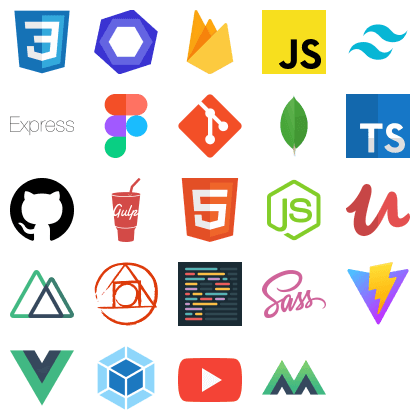
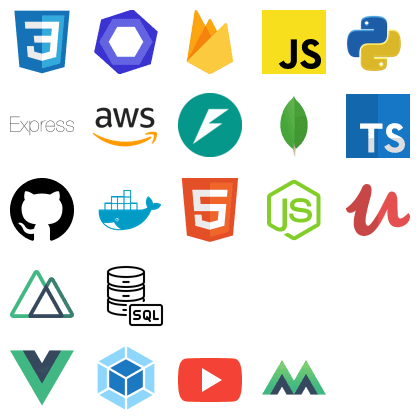
update skills section

diff --git a/components/Skills/What.vue b/components/Skills/What.vue
@@ -37,10 +37,17 @@
                             :title="item.title"
                             target="_blank"
                             :href="item.link"
-                            class="icons__sprite"
-                            :class="item.title.toLowerCase()"
+                            class="skill__link"
                         >
-                            &nbsp;
+                            <span
+                                class="icons__sprite"
+                                :class="item.title.toLowerCase()"
+                            >
+                                &nbsp;
+                            </span>
+                            <span class="skill__name biko__regular">
+                                {{ item.title }}
+                            </span>
                         </a>
                     </li>
                 </ul>
@@ -59,7 +66,7 @@ export default {
         return {
             skills: [
                 {
-                    title: 'Core',
+                    title: 'Frontend',
                     items: [
                         {
                             title: 'HTML',
@@ -73,21 +80,8 @@ export default {
                             title: 'Javascript',
                             link: 'https://www.w3schools.com/js/'
                         },
-                        { title: 'SASS', link: 'https://sass-lang.com/' },
-                        {
-                            title: 'Typescript',
-                            link: 'https://www.typescriptlang.org/'
-                        }
-                    ]
-                },
-                {
-                    title: 'Frontend',
-                    items: [
                         { title: 'Vue', link: 'https://vuejs.org/' },
-                        { title: 'Nuxt', link: 'nuxtjs.org' },
-                        { title: 'PostCSS', link: 'https://postcss.org/' },
-                        { title: 'Tailwind', link: 'https://tailwindcss.com/' },
-                        { title: 'Figma', link: 'https://www.figma.com/' }
+                        { title: 'Nuxt', link: 'https://nuxtjs.org' }
                     ]
                 },
                 {
@@ -95,28 +89,22 @@ export default {
                     items: [
                         { title: 'Node', link: 'https://nodejs.org/en/' },
                         { title: 'Express', link: 'https://expressjs.com/' },
-                        { title: 'MongoDB', link: 'https://www.mongodb.com/' },
+                        { title: 'Python', link: 'https://www.python.org/' },
                         {
-                            title: 'Firebase',
-                            link: 'https://firebase.google.com/'
+                            title: 'FastApi',
+                            link: 'https://fastapi.tiangolo.com/'
                         }
                     ]
                 },
                 {
-                    title: 'Tools',
+                    title: 'Others',
                     items: [
-                        { title: 'Vite', link: 'https://vitejs.dev/' },
-                        { title: 'Webpack', link: 'https://webpack.js.org/' },
-                        { title: 'Gulp', link: 'https://gulpjs.com/' },
-                        { title: 'eslint', link: 'https://eslint.org/' },
-                        { title: 'prettier', link: 'https://prettier.io/' }
-                    ]
-                },
-                {
-                    title: 'Source Control',
-                    items: [
-                        { title: 'Git', link: 'https://git-scm.com/' },
-                        { title: 'Github', link: 'https://github.com/' }
+                        {
+                            title: 'SQL',
+                            link: 'https://en.wikipedia.org/wiki/SQL'
+                        },
+                        { title: 'AWS', link: 'https://aws.amazon.com/' },
+                        { title: 'Docker', link: 'https://www.docker.com/' }
                     ]
                 }
             ],
@@ -434,6 +422,19 @@ export default {
             }
         }
     }
+}
+
+.skill__link {
+    display: flex;
+    flex-direction: column;
+    align-items: center;
+    gap: 16px;
+}
+
+.skill__name {
+    font-size: rem(14);
+    color: $black;
+    line-height: 1;
 }
 
 .skill__title {

diff --git a/assets/styles/_icons.scss b/assets/styles/_icons.scss
@@ -22,6 +22,10 @@
     background-position: -94px -94px;
 }
 
+.aws {
+    background-position: -94px -94px;
+}
+
 .firebase {
     background-position: -178px -10px;
 }
@@ -30,12 +34,20 @@
     background-position: -178px -94px;
 }
 
+.fastapi {
+    background-position: -178px -93px;
+}
+
 .github {
     background-position: -10px -178px;
 }
 
 .gulp {
     background-position: -94px -178px;
+}
+
+.docker {
+    background-position: -98px -178px;
 }
 
 .html {
@@ -62,6 +74,10 @@
     background-position: -94px -262px;
 }
 
+.sql {
+    background-position: -102px -262px;
+}
+
 .prettier {
     background-position: -178px -262px;
 }
@@ -72,6 +88,10 @@
 
 .tailwind {
     background-position: -346px -10px;
+}
+
+.python {
+    background-position: -340px -10px;
 }
 
 .typescript {
